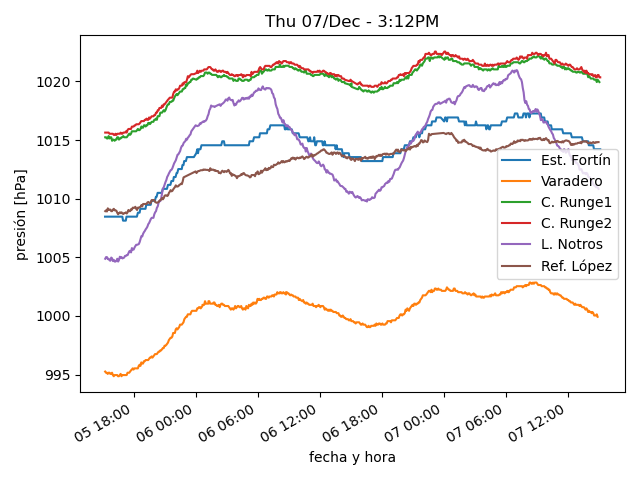
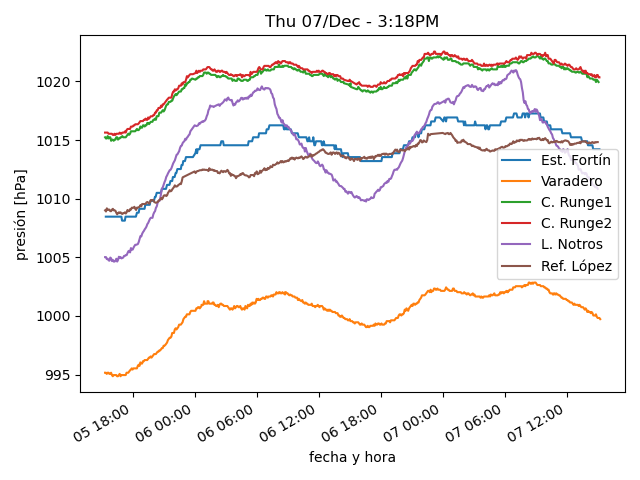
actualiza datos

diff --git a/estaciones/estacion2.html b/estaciones/estacion2.html
@@ -18,32 +18,32 @@
     </tr>
     <tr>
      <td class="stats_data">
-      2:54PM
+      3:14PM
      </td>
     </tr>
     <tr>
      <td class="stats_data">
-      20.9
+      22.0
      </td>
     </tr>
     <tr>
      <td class="stats_data">
-      6.8
+      7.5
      </td>
     </tr>
     <tr>
      <td class="stats_data">
-      40.0
+      39.1
      </td>
     </tr>
     <tr>
      <td class="stats_data">
-      1009.41
+      1009.21
      </td>
     </tr>
     <tr>
      <td class="stats_data">
-      3.7/4.9 NW
+      5.9/7.2 NW
      </td>
     </tr>
     <tr>
@@ -58,7 +58,7 @@
     </tr>
     <tr>
      <td class="stats_data">
-      831.2
+      829.4
      </td>
     </tr>
    </tbody>
